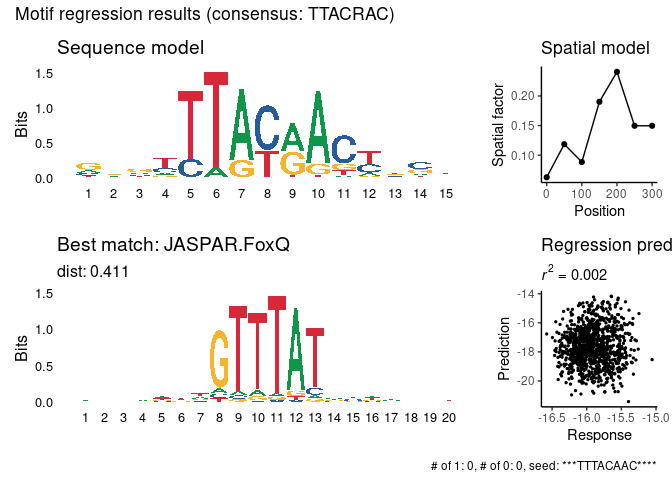
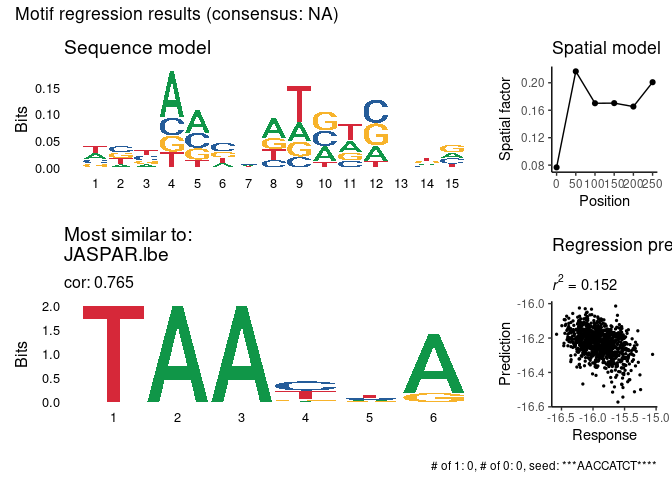
updated README

diff --git a/README.md b/README.md
@@ -31,36 +31,35 @@ remotes::install_github("tanaylab/prego")
 
 ``` r
 library(prego)
+#> ℹ Parallelization enabled. Using 77 threads.
 ```
 
 For a set of continuous variables:
 
 ``` r
 res <- regress_pwm(sequences_example, response_mat_example)
+#> ℹ Using "r2" as the final metric
 #> ℹ Number of response variables: 5
-#> ℹ Screening for kmers in order to initialize regression
-#> ℹ Number of response variables: 5
-#> ℹ Screening kmers of length 8, from position 0 to position 300
-#> ℹ minimal correlation: 0.08, minimal number of occurrences: 50
-#> ✔ Found 2138 kmers in 1000 sequences.
-#> ℹ Motif is shorter than 15, extending with wildcards
-#> ℹ Initializing regression with the following motif: "***TTTACAAC****"
-#> ℹ Running regression
-#> • Motif length: 15
+#> 
+#> ── Generate candidate kmers
+#> 
+#> ── Regress each candidate kmer on sampled data
+#> ℹ Running regression on 10 candidate kmers
 #> • Bidirectional: TRUE
 #> • Spat min: 0
 #> • Spat max: 300
 #> • Spat bin: 50
-#> • Improve epsilon: 0.0001
+#> • Improve epsilon: 1e-04
 #> • Min nuc prob: 0.001
 #> • Uniform prior: 0.05
 #> • Score metric: "r2"
 #> • Seed: 60427
-#> ✔ Finished running regression. Consensus: "TTACRAC"
-#> ✔ R^2: 0.01, 0.0054, 0.0373, 0.0002, and 0.0087
+#> ℹ Best motif: "***AACCATCT****", score (r2): 0.0679663803157184
 plot_regression_qc(res)
-#> Warning: `guides(<scale> = FALSE)` is deprecated. Please use `guides(<scale> = "none")` instead.
-#> `guides(<scale> = FALSE)` is deprecated. Please use `guides(<scale> = "none")` instead.
+#> Warning: The `<scale>` argument of `guides()` cannot be `FALSE`. Use "none" instead as
+#> of ggplot2 3.3.4.
+#> ℹ The deprecated feature was likely used in the ggseqlogo package.
+#>   Please report the issue at <https://github.com/omarwagih/ggseqlogo/issues>.
 ```
 
 <img src="man/figures/README-unnamed-chunk-3-1.png" width="100%" />
@@ -69,30 +68,24 @@ For binary response:
 
 ``` r
 res_binary <- regress_pwm(cluster_sequences_example, cluster_mat_example[, 1])
+#> ℹ Using "ks" as the final metric
 #> ℹ Number of response variables: 1
-#> ℹ Screening for kmers in order to initialize regression
-#> ℹ Number of response variables: 1
-#> ℹ Screening kmers of length 8, from position 0 to position 300
-#> ℹ minimal correlation: 0.08, minimal number of occurrences: 50
-#> ✔ Found 198 kmers in 2359 sequences.
-#> ℹ Motif is shorter than 15, extending with wildcards
-#> ℹ Initializing regression with the following motif: "***TAATCATT****"
-#> ℹ Running regression
-#> • Motif length: 15
+#> 
+#> ── Generate candidate kmers
+#> 
+#> ── Regress each candidate kmer on sampled data
+#> ℹ Running regression on 10 candidate kmers
 #> • Bidirectional: TRUE
 #> • Spat min: 0
 #> • Spat max: 300
 #> • Spat bin: 50
-#> • Improve epsilon: 0.0001
+#> • Improve epsilon: 1e-04
 #> • Min nuc prob: 0.001
 #> • Uniform prior: 0.05
 #> • Score metric: "r2"
 #> • Seed: 60427
-#> ✔ Finished running regression. Consensus: "T*A***W*T"
-#> ✔ KS test D: 0.8507, p-value: 0
+#> ℹ Best motif: "***TTAA*CATT***", score (ks): 0.857117195971103
 plot_regression_qc(res_binary)
-#> Warning: `guides(<scale> = FALSE)` is deprecated. Please use `guides(<scale> = "none")` instead.
-#> `guides(<scale> = FALSE)` is deprecated. Please use `guides(<scale> = "none")` instead.
 ```
 
 <img src="man/figures/README-unnamed-chunk-4-1.png" width="100%" />
@@ -101,14 +94,21 @@ For clusters of sequences:
 
 ``` r
 res <- regress_pwm.clusters(cluster_sequences_example, clusters_example)
+#> ℹ Using sampled optimization
 #> ℹ Running regression for 5 clusters
 #> ℹ Matching with motif databases
+#> Warning: Automatic coercion from double to character was deprecated in purrr 1.0.0.
+#> ℹ Please use an explicit call to `as.character()` within `map_chr()` instead.
+#> ℹ The deprecated feature was likely used in the prego package.
+#>   Please report the issue to the authors.
 res$stats
-#> # A tibble: 5 x 7
-#>   cluster consensus      ks_D        r2      seed_motif              db_match db_match_dist
-#> 1    c100   AT***TC 0.7024075 0.3852463 ***ATCCATCA**** JASPAR.MEIS1.MA1639.1      0.244724
-#> 2    c111   Y*RTAAA 0.8479663 0.4978355 ***CAATTAAC****   JOLMA.CDX1_mono_DBD      0.152716
-#> 3     c29 T*A***W*T 0.8507039 0.5581745 ***TAATCATT****            HOMER.Hnf1      0.340463
-#> 4      c5      GATA 0.5887910 0.2227806 ***CTGATAAG****      JASPAR.GATA1/2/3      0.198050
-#> 5      c6      TATC 0.6160721 0.2783910 ***TCTTATCT****          JASPAR.GATAd      0.219126
+#> # A tibble: 5 × 7
+#>   cluster consensus  ks_D    r2 seed_motif      db_match              db_match…¹
+#>   <chr>   <chr>     <dbl> <dbl> <chr>           <chr>                 <chr>     
+#> 1 c100    WGA***AT  0.665 0.311 ***TGA*GGATG*** HOMER.Hoxb4           0.790131  
+#> 2 c111    TTAY*R    0.837 0.498 ***TTTACAAC**** JASPAR.Abd-B          0.825818  
+#> 3 c29     T*A       0.830 0.541 ***TTA*TCATT*** JOLMA.HNF1B_di_full_1 0.754056  
+#> 4 c5      GATA      0.600 0.187 ***CTGA*AAGG*** JOLMA.GATA3_mono_DBD  0.937572  
+#> 5 c6      ATC       0.611 0.273 ***TCTTATCT**** HOMER.Gata2           0.834088  
+#> # … with abbreviated variable name ¹db_match_cor
 ```
